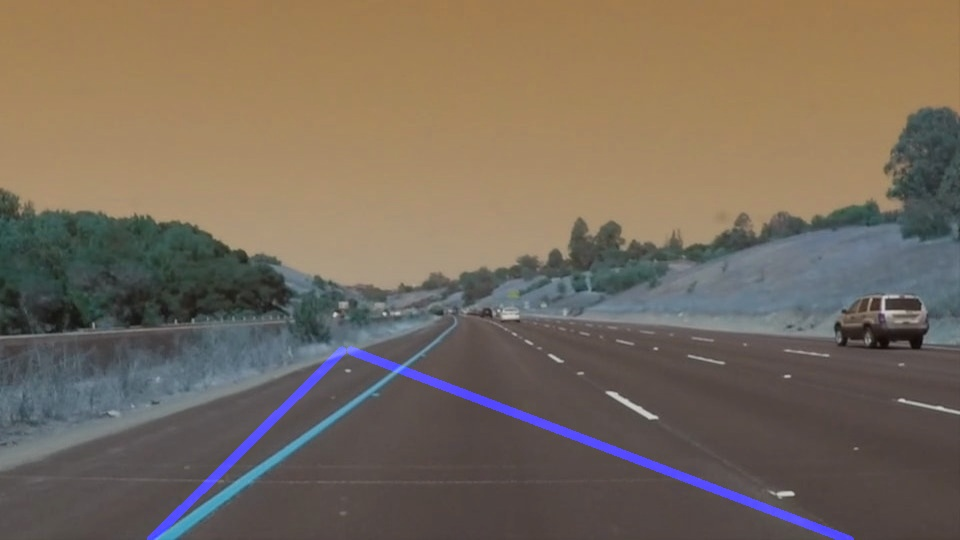
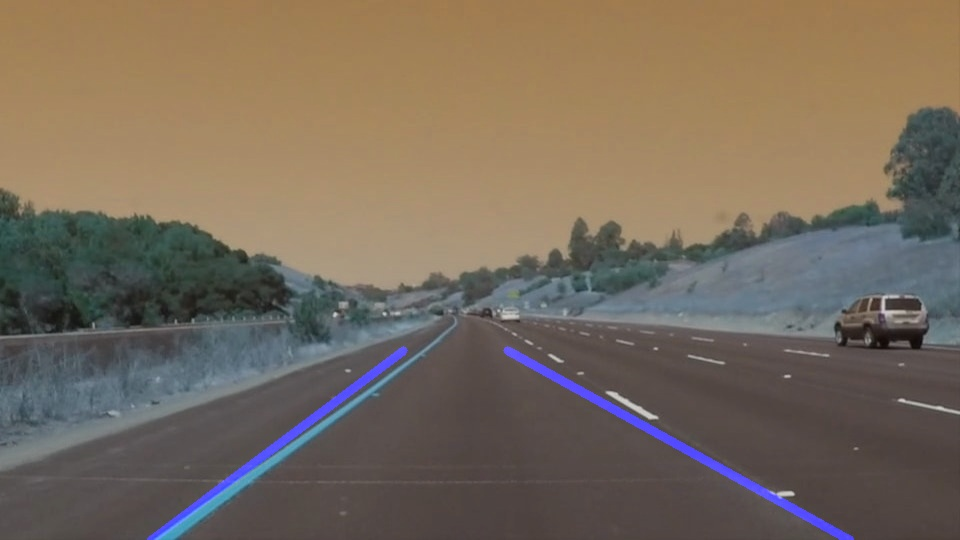
fine tuned draw lines function parameters

Changed region(s): [[0.1562, 0.6222, 0.875, 1.0], [0.5312, 0.6519, 0.5625, 0.6815]]

diff --git a/writeup.md b/writeup.md
@@ -1,12 +1,8 @@
 # **Finding Lane Lines Writeup 
 
----
-
 [//]: # (Image References)
 
 [image1]: ./examples/grayscale.jpg "Grayscale"
-
-### Reflection
 
 ### 1. The Pipeline
 
